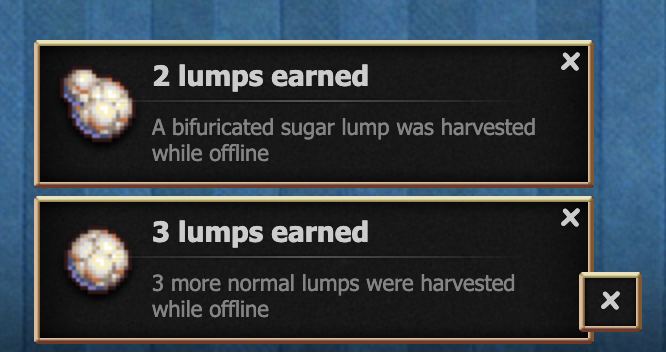
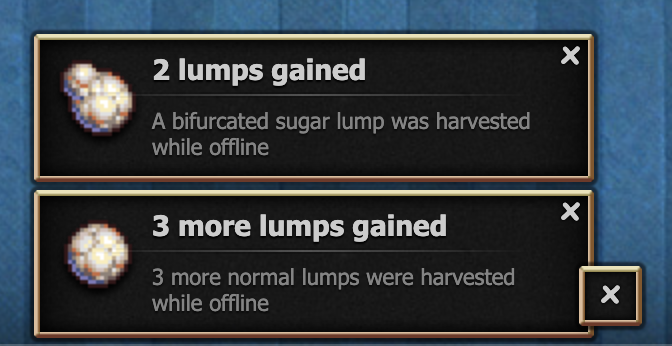
fix stupid spelling mistake

diff --git a/whatlumpdidiharvest/main.js b/whatlumpdidiharvest/main.js
@@ -27,7 +27,7 @@
             }
 
             // add custom harvest notification
-            const idToName = ["normal", "bifuricated", "golden", "meaty", "caramelized"];
+            const idToName = ["normal", "bifurcated", "golden", "meaty", "caramelized"];
             const idToIcon = [
                 [29, 14],
                 [29, 15],
@@ -47,7 +47,7 @@
                 let firstEarned = Game.lumps - this.data.lumps - subsequentEarned;
 
                 Game.Notify(
-                    `${firstEarned > 0 ? firstEarned : "No"} lump${firstEarned === 1 ? "" : "s"} earned`,
+                    `${firstEarned > 0 ? firstEarned : "No"} lump${firstEarned === 1 ? "" : "s"} gained`,
                     `A ${name} sugar lump was harvested while offline`,
                     icon,
                     0,
@@ -55,7 +55,7 @@
 
                 if (subsequentEarned !== 0) {
                     Game.Notify(
-                        `${subsequentEarned} more lump${subsequentEarned === 1 ? "" : "s"} earned`,
+                        `${subsequentEarned} more lump${subsequentEarned === 1 ? "" : "s"} gained`,
                         `${subsequentEarned} more normal lump${
                             subsequentEarned === 1 ? " was" : "s were"
                         } harvested while offline`,

diff --git a/misc/current-lump-type.js b/misc/current-lump-type.js
@@ -6,7 +6,7 @@
             let html = old(...params);
 
             html = html.slice(0, -6); // remove </div> tag
-            let lumpTypeHtml = ["Normal", "Bifuricated", "Golden", "Meaty", "Caramelized"][Game.lumpCurrentType];
+            let lumpTypeHtml = ["Normal", "Bifurcated", "Golden", "Meaty", "Caramelized"][Game.lumpCurrentType];
             html += `<div class="line"></div>This lump is <b>${lumpTypeHtml}</b></div>`;
 
             return html;
